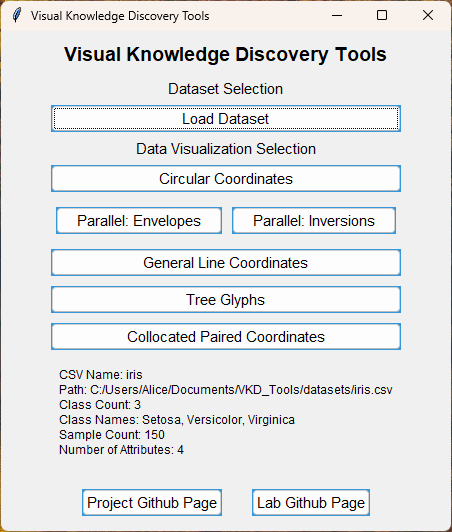
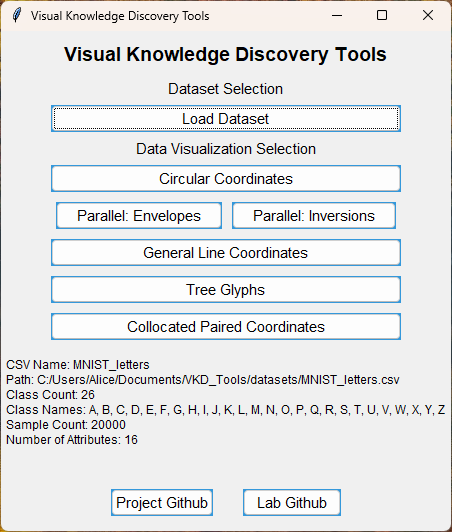
Use generator for permutation gen in Tree Glyphs

diff --git a/tree_glyph_plotter.py b/tree_glyph_plotter.py
@@ -8,6 +8,7 @@ from itertools import permutations
 from sklearn.preprocessing import MinMaxScaler
 from sklearn.discriminant_analysis import LinearDiscriminantAnalysis
 import argparse
+from itertools import islice, cycle
 
 # Initialize global index for permutation cycling
 current_perm_index = 0
@@ -32,7 +33,7 @@ def run_lda(features, labels):
     lda_coefficients = np.abs(lda.coef_).mean(axis=0)
 
 def main():
-    global permutation_list, current_perm_index
+    global current_perm_index, current_permutation, perm_gen
     parser = argparse.ArgumentParser(description='Plot tree glyphs based on the input dataset.')
     parser.add_argument('--file_path', type=str, required=True, help='Path to the dataset CSV file.')
     
@@ -54,32 +55,36 @@ def main():
     # Run LDA and get coefficients
     run_lda(features_normalized, labels)
     
-    # Generate the list of permutations
+    # Get the first permutation based on LDA coefficients
+    sorted_features = np.argsort(lda_coefficients)[::-1]
+    current_permutation = tuple(sorted_features)
+    
+    # Initialize the generator and current index
     num_features = features_normalized.shape[1]
-    permutation_list = list(permutations(range(num_features), num_features))
-
-    # Sort permutations based on LDA coefficients
-    permutation_list = sort_permutations_by_lda(permutation_list, lda_coefficients)
-
-    # Reset current_perm_index to 0 so that the first permutation displayed is the most important one
-    current_perm_index = 0
-
+    perm_gen = cycle(permutations(range(num_features), num_features))
+    current_perm_index = 0  # Initialize to zero
+    
     fig = plt.figure(figsize=(8, 8))
     ax = fig.add_subplot(111, projection='3d')
     
-    # Initial plot
-    plot_current_permutation(features_normalized, labels, dataset_name, ax)
+    # Initial plot based on LDA
+    plot_current_permutation(features_normalized, labels, dataset_name, ax, current_permutation)
 
     def on_scroll(event):
-        global current_perm_index
+        global current_permutation, perm_gen, current_perm_index  # Use global instead of nonlocal
         if event.button == 'up':
-            current_perm_index = (current_perm_index + 1) % len(permutation_list)
+            current_permutation = next(perm_gen)
+            current_perm_index += 1
         else:
-            current_perm_index = (current_perm_index - 1) % len(permutation_list)
-        
-        plot_current_permutation(features_normalized, labels, dataset_name, ax)
+            # To go to the previous permutation, regenerate the cycle up to the current index - 1
+            if current_perm_index > 0:
+                current_perm_index -= 1
+                perm_gen = cycle(permutations(range(num_features), num_features))
+                current_permutation = next(islice(perm_gen, current_perm_index, current_perm_index + 1))
+
+        plot_current_permutation(features_normalized, labels, dataset_name, ax, current_permutation)
         plt.draw()
-    
+
     def on_key(event):
         if event.key == 'escape':
             plt.close()
@@ -90,10 +95,7 @@ def main():
     fig.canvas.mpl_connect('key_press_event', on_key)
     plt.show()
 
-def plot_current_permutation(data, labels, dataset_name, ax=None):
-    global current_perm_index
-    global permutation_list
-    
+def plot_current_permutation(data, labels, dataset_name, ax=None, current_permutation=None):
     if ax is None:
         plt.close('all')
         fig = plt.figure(figsize=(8, 8))
@@ -101,8 +103,8 @@ def plot_current_permutation(data, labels, dataset_name, ax=None):
     else:
         ax.clear()
         
-    cols = permutation_list[current_perm_index]
-    ax.set_title(f"{dataset_name} Tree-Glyphs with Permutation: {cols}")
+    cols = current_permutation
+    ax.set_title(f"{dataset_name} Tree Glyphs; Permutation:\n{cols}")
 
     plot_trees(ax, data.iloc[:, list(cols)], labels, stretch_factor=5.0)
 

diff --git a/menu.py b/menu.py
@@ -58,11 +58,11 @@ def main():
     # Add buttons to the parallel_coords_frame
     global envelope_button
     envelope_button = ttk.Button(parallel_coords_frame, text="Parallel: Envelopes", command=launch_envelope_plotter, state=tk.DISABLED)
-    envelope_button.pack(side="left", padx=5, pady=5, expand=True, fill='x')
+    envelope_button.pack(side="left", padx=5, expand=True, fill='x')
 
     global plotly_demo_button
     plotly_demo_button = ttk.Button(parallel_coords_frame, text="Parallel: Inversions", command=launch_plotly_demo, state=tk.DISABLED)
-    plotly_demo_button.pack(side="right", padx=5, pady=5, expand=True, fill='x')
+    plotly_demo_button.pack(side="right", padx=5, expand=True, fill='x')
 
     global glyph_2d_button
     glyph_2d_button = ttk.Button(app, text="General Line Coordinates", command=launch_glc_line_plotter, state=tk.DISABLED)
@@ -81,10 +81,10 @@ def main():
     github_buttons_frame.pack(side='bottom', pady=10)
     
     # Add GitHub buttons to the frame
-    project_github_button = ttk.Button(github_buttons_frame, text="Project Github Page", command=launch_github)
+    project_github_button = ttk.Button(github_buttons_frame, text="Project Github", command=launch_github)
     project_github_button.pack(side="left", padx=15, pady=5)
     
-    lab_github_button = ttk.Button(github_buttons_frame, text="Lab Github Page", command=launch_lab_github)
+    lab_github_button = ttk.Button(github_buttons_frame, text="Lab Github", command=launch_lab_github)
     lab_github_button.pack(side="right", padx=15, pady=5)
 
     info_label = ttk.Label(app, text="", font=("Arial", 9))

diff --git a/README.md b/README.md
@@ -78,7 +78,7 @@ These python libraries are required to run these scripts.
     - Plotted permutation can be cycled with the mouse wheel.
     - Displays Linear Discriminant Analysis resultant coefficient determined permutation first.
 
-    ![Tree Glyph Output Demo](screenshots/wheat_seeds_combinatorial_trees_1.png)
+    ![Tree Glyph Output Demo](screenshots/wheat_seeds_tree_glyphs.png)
 
 6. collocated_plotter.py: Generataes a collocated paired coordinates subplot sequence.
     - Plots all attributes of feature vectores as normalized paired axis.
